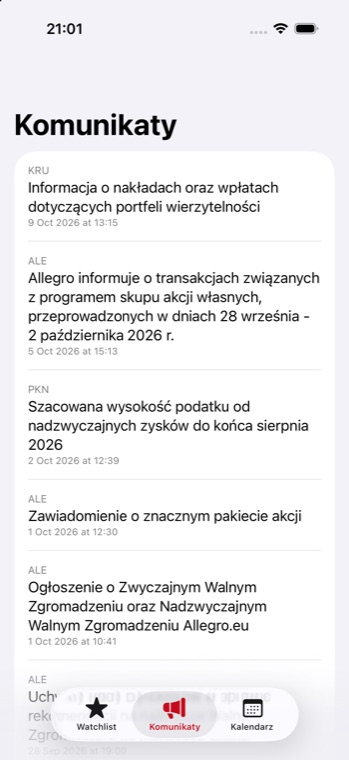
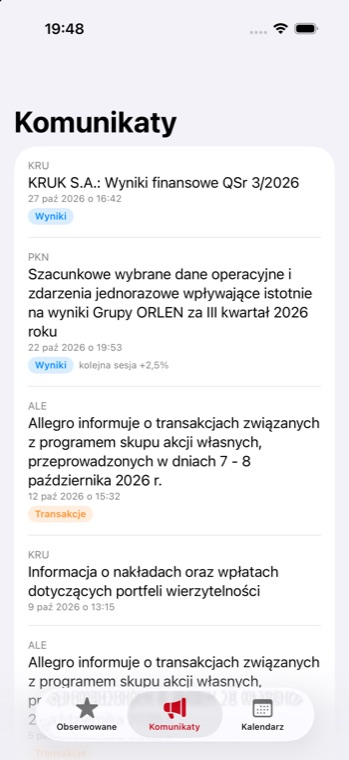
Website: match the Dziś redesign (new Today screen, tags, price reaction, no live quotes)

diff --git a/website/index.html b/website/index.html
@@ -4,11 +4,11 @@
 <meta charset="UTF-8" />
 <meta name="viewport" content="width=device-width, initial-scale=1.0" />
 <title>StockPilot — Your command center for the Warsaw Stock Exchange</title>
-<meta name="description" content="StockPilot is a native iOS app for Warsaw Stock Exchange investors: a watchlist, every ESPI/EBI filing and an earnings calendar in one place. Coming soon to the App Store." />
+<meta name="description" content="StockPilot is a native iOS app for Warsaw Stock Exchange investors: a daily briefing, every ESPI/EBI filing and an earnings calendar in one place. Coming soon to the App Store." />
 <meta name="theme-color" content="#0a0a0a" />
 <meta property="og:type" content="website" />
 <meta property="og:title" content="StockPilot — Coming soon to the App Store" />
-<meta property="og:description" content="Your command center for the Warsaw Stock Exchange: watchlist, ESPI/EBI filings and an earnings calendar, in one native iOS app." />
+<meta property="og:description" content="Your command center for the Warsaw Stock Exchange: a daily briefing, ESPI/EBI filings and an earnings calendar, in one native iOS app." />
 <meta property="og:image" content="https://stockpilot-website-six.vercel.app/assets/og.png" />
 <meta property="og:url" content="https://stockpilot-website-six.vercel.app/" />
 <meta name="twitter:card" content="summary_large_image" />
@@ -18,7 +18,7 @@
 <link rel="preconnect" href="https://fonts.googleapis.com" />
 <link rel="preconnect" href="https://fonts.gstatic.com" crossorigin />
 <link href="https://fonts.googleapis.com/css2?family=Onest:wght@400;500;600;700&display=swap" rel="stylesheet" />
-<link rel="preload" as="image" href="assets/watchlist.jpg" />
+<link rel="preload" as="image" href="assets/today.jpg" />
 <script>window.va = window.va || function () { (window.vaq = window.vaq || []).push(arguments); };</script>
 <script defer src="/_vercel/insights/script.js"></script>
 <noscript><style>.rv,.line-inner,.word-in{opacity:1!important;transform:none!important}#loader{display:none!important}</style></noscript>
@@ -176,6 +176,7 @@ html.ready .header{opacity:1;transform:none}
 .phone.p1{left:0;top:2rem;z-index:2;transform:rotate(-4deg)}
 .phone.p2{right:0;top:0;width:14rem;z-index:1;transform:rotate(6deg);opacity:.95}
 .phone-wrap{transition:transform .25s ease-out}
+.phone.p2 img{-webkit-mask-image:linear-gradient(to bottom,#000 72%,transparent 90%);mask-image:linear-gradient(to bottom,#000 72%,transparent 90%)}
 .tickcard{position:absolute;left:-3rem;bottom:-.75rem;z-index:5;width:21rem;max-width:92%;border-radius:1.5rem;background:rgba(255,255,255,.78);padding:.6rem;box-shadow:0 1rem 2.5rem -.5rem rgba(0,0,0,.4),0 0 0 1px rgba(230,229,226,.7);backdrop-filter:blur(12px);-webkit-backdrop-filter:blur(12px);color:#111}
 @media (max-width:640px){.tickcard{left:0}}
 .tickcard .row{display:flex;gap:.5rem;cursor:pointer;border-radius:.875rem}
@@ -435,7 +436,7 @@ setTimeout(function(){ if(!window.__sp){ var l=document.getElementById('loader')
     <div class="hero-r">
       <div class="phones rv" data-gate style="--y:24px;--d:350ms" id="phones">
         <div class="phone p2 phone-wrap" data-depth="-10"><img src="assets/announcements.jpg" alt="StockPilot announcements feed" width="380" height="826" loading="eager" /></div>
-        <div class="phone p1 phone-wrap" data-depth="12"><img src="assets/watchlist.jpg" alt="StockPilot watchlist" width="380" height="826" fetchpriority="high" /></div>
+        <div class="phone p1 phone-wrap" data-depth="12"><img src="assets/today.jpg" alt="StockPilot Today (Dziś) screen" width="380" height="826" fetchpriority="high" /></div>
         <div class="tickcard" id="tick">
           <div class="row" id="tick-row">
             <div class="tile"><img src="assets/icon-512.png" alt="" width="80" height="80" /></div>
@@ -500,15 +501,15 @@ setTimeout(function(){ if(!window.__sp){ var l=document.getElementById('loader')
     </div>
     <ul class="cards">
       <li class="rv" style="--y:48px"><article class="card" data-sp="y:-8;s:1.012;t:260,22">
-        <div class="card-meta"><span data-i18n="feat.1.cat">Watchlist</span><span class="card-badge" data-sp="r:45;s:1.08;t:280,18" data-sp-trigger=".card">01</span></div>
-        <h3 data-i18n="feat.1.name">Watchlist</h3><p data-i18n="feat.1.desc"></p>
-        <div class="tags"><span class="chip" data-i18n="feat.1.t1">400+ tickers</span><span class="chip" data-i18n="feat.1.t2">Live quotes</span></div>
-        <div class="peek"><div class="phone"><img src="assets/watchlist.jpg" alt="Watchlist screen" width="380" height="826" loading="lazy" /></div></div>
+        <div class="card-meta"><span data-i18n="feat.1.cat">Today</span><span class="card-badge" data-sp="r:45;s:1.08;t:280,18" data-sp-trigger=".card">01</span></div>
+        <h3 data-i18n="feat.1.name">Today</h3><p data-i18n="feat.1.desc"></p>
+        <div class="tags"><span class="chip" data-i18n="feat.1.t1">400+ tickers</span><span class="chip" data-i18n="feat.1.t2">Daily briefing</span></div>
+        <div class="peek"><div class="phone"><img src="assets/today.jpg" alt="Today (Dziś) screen" width="380" height="826" loading="lazy" /></div></div>
       </article></li>
       <li class="rv" style="--y:48px;--d:90ms"><article class="card" data-sp="y:-8;s:1.012;t:260,22">
         <div class="card-meta"><span data-i18n="feat.2.cat">Announcements</span><span class="card-badge" data-sp="r:45;s:1.08;t:280,18" data-sp-trigger=".card">02</span></div>
         <h3 data-i18n="feat.2.name">Announcements</h3><p data-i18n="feat.2.desc"></p>
-        <div class="tags"><span class="chip">ESPI</span><span class="chip">EBI</span><span class="chip" data-i18n="feat.2.t3">Unread markers</span></div>
+        <div class="tags"><span class="chip">ESPI</span><span class="chip">EBI</span><span class="chip" data-i18n="feat.2.t3">Category tags</span><span class="chip" data-i18n="feat.2.t4">Price reaction</span></div>
         <div class="peek"><div class="phone"><img src="assets/announcements.jpg" alt="Announcements screen" width="380" height="826" loading="lazy" /></div></div>
       </article></li>
       <li class="rv" style="--y:48px"><article class="card" data-sp="y:-8;s:1.012;t:260,22">
@@ -520,7 +521,7 @@ setTimeout(function(){ if(!window.__sp){ var l=document.getElementById('loader')
       <li class="rv" style="--y:48px;--d:90ms"><article class="card" data-sp="y:-8;s:1.012;t:260,22">
         <div class="card-meta"><span data-i18n="feat.4.cat">Company detail</span><span class="card-badge" data-sp="r:45;s:1.08;t:280,18" data-sp-trigger=".card">04</span></div>
         <h3 data-i18n="feat.4.name">Company detail</h3><p data-i18n="feat.4.desc"></p>
-        <div class="tags"><span class="chip" data-i18n="feat.4.t1">Per-company mute</span><span class="chip" data-i18n="feat.4.t2">Notifications</span></div>
+        <div class="tags"><span class="chip" data-i18n="feat.4.t1">Per-company alerts</span><span class="chip" data-i18n="feat.4.t2">Report dates</span></div>
         <div class="peek"><div class="phone"><img src="assets/company-detail.jpg" alt="Company detail screen" width="380" height="826" loading="lazy" /></div></div>
       </article></li>
     </ul>
@@ -602,7 +603,7 @@ setTimeout(function(){ if(!window.__sp){ var l=document.getElementById('loader')
         <ul>
           <li class="txt">SwiftUI · SwiftData</li>
           <li class="txt" data-i18n="foot.d1">ESPI/EBI filings via bankier.pl</li>
-          <li class="txt" data-i18n="foot.d2">Quotes via Yahoo Finance</li>
+          <li class="txt" data-i18n="foot.d2">Price reactions via Yahoo Finance</li>
           <li><a class="flink" href="https://github.com/KDominikk00/StockPilot" target="_blank" rel="noopener"><span data-sp="x:4;o:.65-1;t:320,22" data-sp-trigger="a">GitHub ↗</span></a></li>
         </ul>
       </div>
@@ -719,28 +720,28 @@ const I18N = {
   en: {
     'skip': 'Skip to content',
     'meta.title': 'StockPilot — Your command center for the Warsaw Stock Exchange',
-    'meta.desc': 'StockPilot is a native iOS app for Warsaw Stock Exchange investors: a watchlist, every ESPI/EBI filing and an earnings calendar in one place. Coming soon to the App Store.',
+    'meta.desc': 'StockPilot is a native iOS app for Warsaw Stock Exchange investors: a daily briefing, every ESPI/EBI filing and an earnings calendar in one place. Coming soon to the App Store.',
     'loader.tag': 'Your command center for the stock market.', 'loader.loading': 'Loading',
     'nav.home': 'Home', 'nav.features': 'Features', 'nav.how': 'How it works', 'nav.facts': 'Facts', 'nav.menu': 'Menu', 'nav.close': 'Close',
     'clock.label': 'Warsaw time',
     'hero.eyebrow': 'Coming soon to the App Store',
     'hero.h1': ['Command center', 'for the Warsaw', 'Stock Exchange.'],
-    'hero.sub': 'A native iOS companion for investors in Warsaw Stock Exchange companies: your watchlist, every ESPI/EBI filing and the earnings calendar, in one place.',
+    'hero.sub': 'A native iOS companion for investors in Warsaw Stock Exchange companies: a daily briefing, every ESPI/EBI filing and the earnings calendar, in one place.',
     'hero.chip2': 'No accounts', 'hero.chip3': '400+ GPW companies', 'hero.cta2': 'See features',
     'store.small': 'Coming soon on the', 'store.aria': 'Coming soon on the App Store', 'store.menu': 'Coming soon on the App Store',
-    'tick': [['Watchlist', 'Track every ticker.'], ['Announcements', 'Filings as they land.'], ['Earnings calendar', 'Reports, on your calendar.']],
+    'tick': [['Today', 'Your daily briefing.'], ['Announcements', 'Filings, tagged by type.'], ['Earnings calendar', 'Reports, on your calendar.']],
     'status.l': 'Built for GPW investors', 'status.m': 'ESPI & EBI filings, polled every 3 minutes', 'status.r': 'Scroll to explore',
     'about.eyebrow': 'The app', 'about.cap': 'Native iOS, built with SwiftUI.',
     'about.statement': 'StockPilot follows the companies you care about on the GPW and <em>surfaces every ESPI/EBI filing and report date in one place, with no account and no noise.</em>',
     'about.foot': 'Launching on iPhone.',
     'band.1': 'Track', 'band.2': 'Read', 'band.3': 'Plan',
     'feat.eyebrow': 'Features', 'feat.h2': "What's inside",
-    'feat.1.cat': 'Watchlist', 'feat.1.name': 'Watchlist', 'feat.1.desc': 'Pick from the full GPW main market and see live prices and the daily change at a glance.', 'feat.1.t1': '400+ tickers', 'feat.1.t2': 'Live quotes',
-    'feat.2.cat': 'Announcements', 'feat.2.name': 'Announcements', 'feat.2.desc': 'Official ESPI/EBI filings for the companies you follow, newest first, with unread markers and a tab badge.', 'feat.2.t3': 'Unread markers',
-    'feat.3.cat': 'Earnings calendar', 'feat.3.name': 'Earnings calendar', 'feat.3.desc': 'A month view plus an upcoming list, filled in automatically with report publication dates.', 'feat.3.t1': 'Month view', 'feat.3.t2': 'Auto-filled',
-    'feat.4.cat': 'Company detail', 'feat.4.name': 'Company detail', 'feat.4.desc': 'Quote, filings and report dates for a single company, with a per-company mute for when you want quiet.', 'feat.4.t1': 'Per-company mute', 'feat.4.t2': 'Notifications',
+    'feat.1.cat': 'Today', 'feat.1.name': 'Today', 'feat.1.desc': 'A daily briefing: new filings, reports due this week, the most important recent announcements and the companies you follow.', 'feat.1.t1': '400+ tickers', 'feat.1.t2': 'Daily briefing',
+    'feat.2.cat': 'Announcements', 'feat.2.name': 'Announcements', 'feat.2.desc': 'Official ESPI/EBI filings for the companies you follow, newest first, with category tags, the price reaction on results and dividends, and an in-app reader.', 'feat.2.t3': 'Category tags', 'feat.2.t4': 'Price reaction',
+    'feat.3.cat': 'Earnings calendar', 'feat.3.name': 'Earnings calendar', 'feat.3.desc': 'A month view with today highlighted and a list of the month\'s report dates, filled in automatically.', 'feat.3.t1': 'Month view', 'feat.3.t2': 'Auto-filled',
+    'feat.4.cat': 'Company detail', 'feat.4.name': 'Company detail', 'feat.4.desc': 'Filings and report dates for a single company, with a per-company bell to turn its notifications on or off.', 'feat.4.t1': 'Per-company alerts', 'feat.4.t2': 'Report dates',
     'how.eyebrow': 'How it works', 'how.h2': 'Simple by design',
-    'how.1.t': 'Pick your companies', 'how.1.d': 'Search ~400 GPW tickers and add them to your watchlist.',
+    'how.1.t': 'Pick your companies', 'how.1.d': 'Search ~400 GPW tickers and follow the ones you care about.',
     'how.2.t': 'Filings as they land', 'how.2.d': 'A backend watches ESPI/EBI every 3 minutes, so your feed stays fresh.',
     'how.3.t': 'Never miss a report', 'how.3.d': 'Report publication dates land in your calendar automatically.',
     'how.4.t': 'Private by design', 'how.4.d': 'No accounts. What you follow stays on your device.',
@@ -750,37 +751,37 @@ const I18N = {
     'faq.1.q': 'When does it launch?', 'faq.1.a': "Soon, on the App Store for iPhone. There's no date yet, so check back here.",
     'faq.2.q': 'Is it free?', 'faq.2.a': "Pricing hasn't been announced yet.",
     'faq.3.q': 'Do I need an account?', 'faq.3.a': 'No. Everything you pick lives on your device.',
-    'faq.4.q': 'Where does the data come from?', 'faq.4.a': 'Filings and report dates come from bankier.pl, and quotes come from Yahoo Finance. Both are third-party sources.',
+    'faq.4.q': 'Where does the data come from?', 'faq.4.a': 'Filings and report dates come from bankier.pl, and price reactions come from Yahoo Finance. Both are third-party sources.',
     'faq.5.q': 'Is this investment advice?', 'faq.5.a': 'No. StockPilot is informational only and is not investment advice.',
     'foot.h2': ['Coming soon to', 'the App Store.'], 'foot.tag': 'Your command center for the Warsaw Stock Exchange.',
-    'foot.c1': 'Product', 'foot.c2': 'Under the hood', 'foot.d1': 'ESPI/EBI filings via bankier.pl', 'foot.d2': 'Quotes via Yahoo Finance',
+    'foot.c1': 'Product', 'foot.c2': 'Under the hood', 'foot.d1': 'ESPI/EBI filings via bankier.pl', 'foot.d2': 'Price reactions via Yahoo Finance',
     'foot.legal': '© 2026 StockPilot. Data is informational and not investment advice.', 'foot.apple': 'App Store is a service mark of Apple Inc.'
   },
   pl: {
     'skip': 'Przejdź do treści',
     'meta.title': 'StockPilot — Twoje centrum dowodzenia na giełdzie',
-    'meta.desc': 'StockPilot to natywna aplikacja na iOS dla inwestorów GPW: watchlista, wszystkie komunikaty ESPI/EBI i kalendarz wyników w jednym miejscu. Wkrótce w App Store.',
+    'meta.desc': 'StockPilot to natywna aplikacja na iOS dla inwestorów GPW: dzienny przegląd, wszystkie komunikaty ESPI/EBI i kalendarz wyników w jednym miejscu. Wkrótce w App Store.',
     'loader.tag': 'Twoje centrum dowodzenia na giełdzie.', 'loader.loading': 'Ładowanie',
     'nav.home': 'Start', 'nav.features': 'Funkcje', 'nav.how': 'Jak to działa', 'nav.facts': 'Fakty', 'nav.menu': 'Menu', 'nav.close': 'Zamknij',
     'clock.label': 'Czas w Warszawie',
     'hero.eyebrow': 'Wkrótce w App Store',
     'hero.h1': ['Twoje centrum', 'dowodzenia', 'na giełdzie.'],
-    'hero.sub': 'Natywna aplikacja na iOS dla inwestorów spółek z GPW: watchlista, wszystkie komunikaty ESPI/EBI i kalendarz wyników w jednym miejscu.',
+    'hero.sub': 'Natywna aplikacja na iOS dla inwestorów spółek z GPW: dzienny przegląd, wszystkie komunikaty ESPI/EBI i kalendarz wyników w jednym miejscu.',
     'hero.chip2': 'Bez konta', 'hero.chip3': '400+ spółek GPW', 'hero.cta2': 'Zobacz funkcje',
     'store.small': 'Wkrótce w', 'store.aria': 'Wkrótce w App Store', 'store.menu': 'Wkrótce w App Store',
-    'tick': [['Watchlista', 'Śledź każdą spółkę.'], ['Komunikaty', 'Na bieżąco, od razu.'], ['Kalendarz wyników', 'Raporty w kalendarzu.']],
+    'tick': [['Dziś', 'Twój codzienny przegląd.'], ['Komunikaty', 'Oznaczone według typu.'], ['Kalendarz wyników', 'Raporty w kalendarzu.']],
     'status.l': 'Dla inwestorów GPW', 'status.m': 'Komunikaty ESPI i EBI co 3 minuty', 'status.r': 'Przewiń',
     'about.eyebrow': 'Aplikacja', 'about.cap': 'Natywnie na iOS, zbudowane w SwiftUI.',
     'about.statement': 'StockPilot śledzi spółki z GPW, które Cię interesują, i <em>zbiera w jednym miejscu każdy komunikat ESPI/EBI oraz termin publikacji wyników, bez konta i bez szumu.</em>',
     'about.foot': 'Premiera na iPhone.',
     'band.1': 'Śledź', 'band.2': 'Czytaj', 'band.3': 'Planuj',
     'feat.eyebrow': 'Funkcje', 'feat.h2': 'Co w środku',
-    'feat.1.cat': 'Watchlista', 'feat.1.name': 'Watchlista', 'feat.1.desc': 'Wybierz spółki z całego rynku głównego GPW i zobacz bieżące kursy oraz dzienną zmianę.', 'feat.1.t1': '400+ spółek', 'feat.1.t2': 'Notowania',
-    'feat.2.cat': 'Komunikaty', 'feat.2.name': 'Komunikaty', 'feat.2.desc': 'Oficjalne komunikaty ESPI/EBI spółek, które obserwujesz, od najnowszych, ze znacznikami nieprzeczytanych i plakietką na zakładce.', 'feat.2.t3': 'Nieprzeczytane',
-    'feat.3.cat': 'Kalendarz wyników', 'feat.3.name': 'Kalendarz wyników', 'feat.3.desc': 'Widok miesiąca i lista nadchodzących wydarzeń, automatycznie uzupełniane datami publikacji raportów.', 'feat.3.t1': 'Widok miesiąca', 'feat.3.t2': 'Automatycznie',
-    'feat.4.cat': 'Szczegóły spółki', 'feat.4.name': 'Szczegóły spółki', 'feat.4.desc': 'Kurs, komunikaty i terminy raportów jednej spółki, z wyciszaniem pojedynczych spółek, gdy chcesz spokoju.', 'feat.4.t1': 'Wyciszanie spółek', 'feat.4.t2': 'Powiadomienia',
+    'feat.1.cat': 'Dziś', 'feat.1.name': 'Dziś', 'feat.1.desc': 'Dzienny przegląd: nowe komunikaty, raporty w tym tygodniu, najważniejsze ostatnie ogłoszenia i spółki, które obserwujesz.', 'feat.1.t1': '400+ spółek', 'feat.1.t2': 'Dzienny przegląd',
+    'feat.2.cat': 'Komunikaty', 'feat.2.name': 'Komunikaty', 'feat.2.desc': 'Oficjalne komunikaty ESPI/EBI spółek, które obserwujesz, od najnowszych, z tagami kategorii, reakcją kursu na wyniki i dywidendy oraz czytnikiem w aplikacji.', 'feat.2.t3': 'Tagi kategorii', 'feat.2.t4': 'Reakcja kursu',
+    'feat.3.cat': 'Kalendarz wyników', 'feat.3.name': 'Kalendarz wyników', 'feat.3.desc': 'Widok miesiąca z wyróżnionym dniem dzisiejszym i lista terminów raportów z danego miesiąca, uzupełniana automatycznie.', 'feat.3.t1': 'Widok miesiąca', 'feat.3.t2': 'Automatycznie',
+    'feat.4.cat': 'Szczegóły spółki', 'feat.4.name': 'Szczegóły spółki', 'feat.4.desc': 'Komunikaty i terminy raportów jednej spółki, z dzwonkiem do włączania i wyłączania jej powiadomień.', 'feat.4.t1': 'Alerty per spółka', 'feat.4.t2': 'Terminy raportów',
     'how.eyebrow': 'Jak to działa', 'how.h2': 'Proste z założenia',
-    'how.1.t': 'Wybierz spółki', 'how.1.d': 'Wyszukaj ponad 400 spółek z GPW i dodaj je do watchlisty.',
+    'how.1.t': 'Wybierz spółki', 'how.1.d': 'Wyszukaj ponad 400 spółek z GPW i obserwuj te, na których Ci zależy.',
     'how.2.t': 'Komunikaty na bieżąco', 'how.2.d': 'Serwer sprawdza ESPI/EBI co 3 minuty, więc Twój feed jest zawsze aktualny.',
     'how.3.t': 'Żaden raport nie umknie', 'how.3.d': 'Terminy publikacji raportów trafiają do kalendarza automatycznie.',
     'how.4.t': 'Prywatne z założenia', 'how.4.d': 'Bez kont. To, co obserwujesz, zostaje na Twoim urządzeniu.',
@@ -790,10 +791,10 @@ const I18N = {
     'faq.1.q': 'Kiedy premiera?', 'faq.1.a': 'Wkrótce, w App Store na iPhone’a. Nie mamy jeszcze daty, więc zajrzyj tu ponownie.',
     'faq.2.q': 'Czy aplikacja jest darmowa?', 'faq.2.a': 'Cena nie została jeszcze ogłoszona.',
     'faq.3.q': 'Czy potrzebuję konta?', 'faq.3.a': 'Nie. Wszystko, co wybierzesz, zostaje na Twoim urządzeniu.',
-    'faq.4.q': 'Skąd pochodzą dane?', 'faq.4.a': 'Komunikaty i terminy raportów pochodzą z bankier.pl, a notowania z Yahoo Finance. Oba to źródła zewnętrzne.',
+    'faq.4.q': 'Skąd pochodzą dane?', 'faq.4.a': 'Komunikaty i terminy raportów pochodzą z bankier.pl, a reakcje kursu z Yahoo Finance. Oba to źródła zewnętrzne.',
     'faq.5.q': 'Czy to porada inwestycyjna?', 'faq.5.a': 'Nie. StockPilot ma charakter wyłącznie informacyjny i nie stanowi porady inwestycyjnej.',
     'foot.h2': ['Wkrótce w', 'App Store.'], 'foot.tag': 'Twoje centrum dowodzenia na giełdzie.',
-    'foot.c1': 'Produkt', 'foot.c2': 'Pod maską', 'foot.d1': 'Komunikaty ESPI/EBI z bankier.pl', 'foot.d2': 'Notowania z Yahoo Finance',
+    'foot.c1': 'Produkt', 'foot.c2': 'Pod maską', 'foot.d1': 'Komunikaty ESPI/EBI z bankier.pl', 'foot.d2': 'Reakcje kursu z Yahoo Finance',
     'foot.legal': '© 2026 StockPilot. Dane mają charakter informacyjny i nie stanowią porady inwestycyjnej.', 'foot.apple': 'App Store jest znakiem usługowym Apple Inc.'
   }
 };
